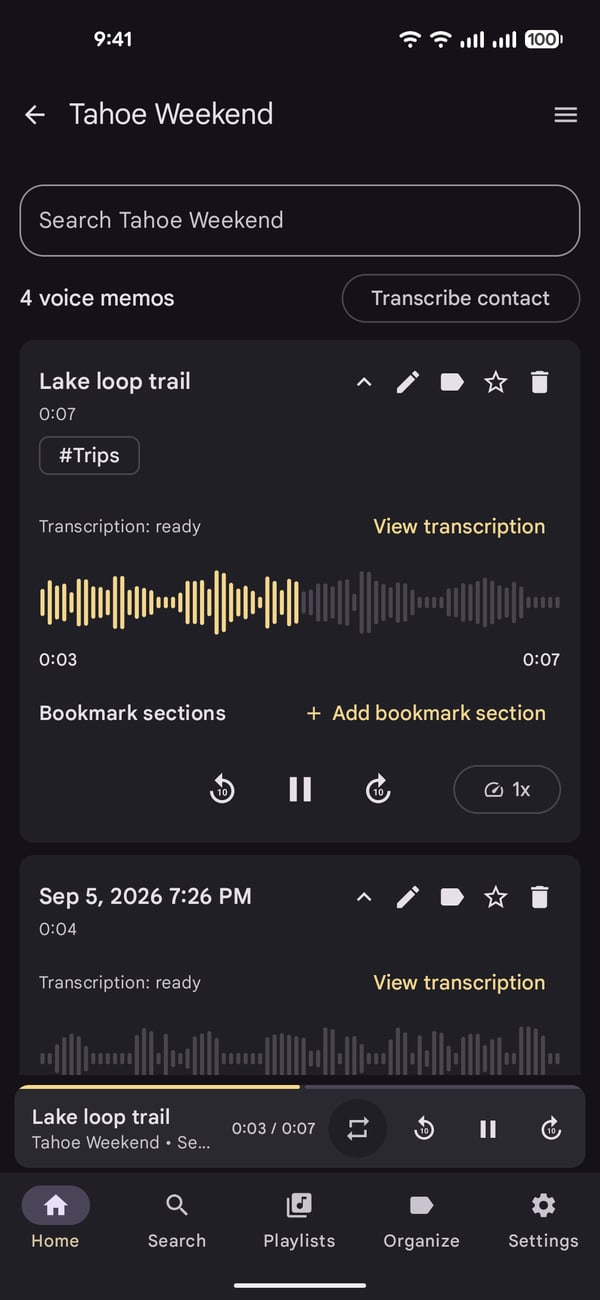
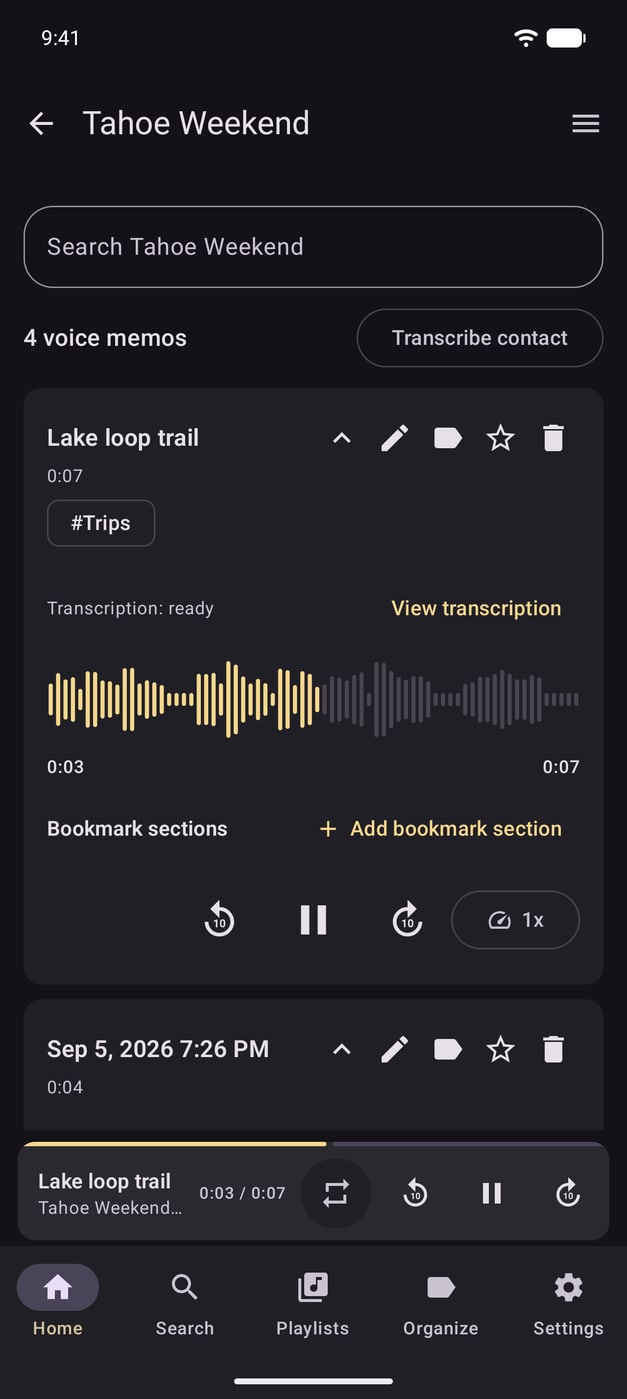
Recapture Memoria screenshots on a Pixel 10 Pro emulator
Same invented dataset, now captured on an AVD like Navi's: a clean demo-mode
status bar with nothing painted out, and Navi's 627px phone and 1200x1000
unfolded sizes.

diff --git a/src/data/projects.ts b/src/data/projects.ts
@@ -47,7 +47,7 @@ export const projects: Project[] = [
         },
         {
           src: '/projects/memoria/library-dark.jpg',
-          alt: 'Memoria home screen in the dark theme.',
+          alt: 'Memoria home screen in the dark theme, with a paused voice memo in the mini player.',
           caption: 'Dark theme',
         },
         {
